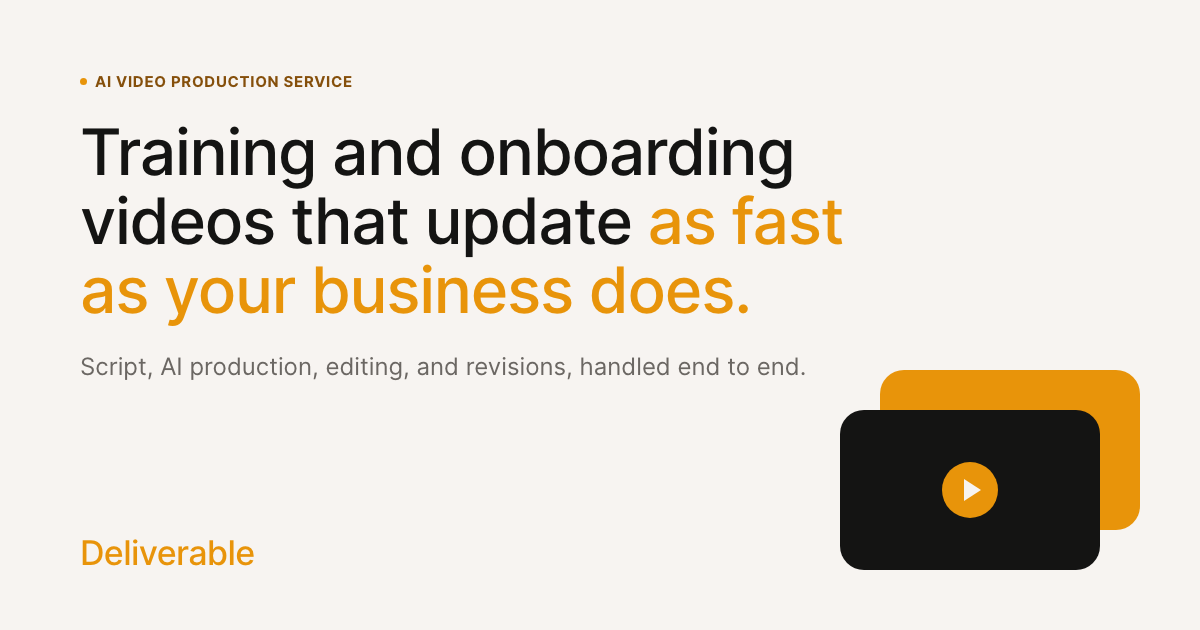
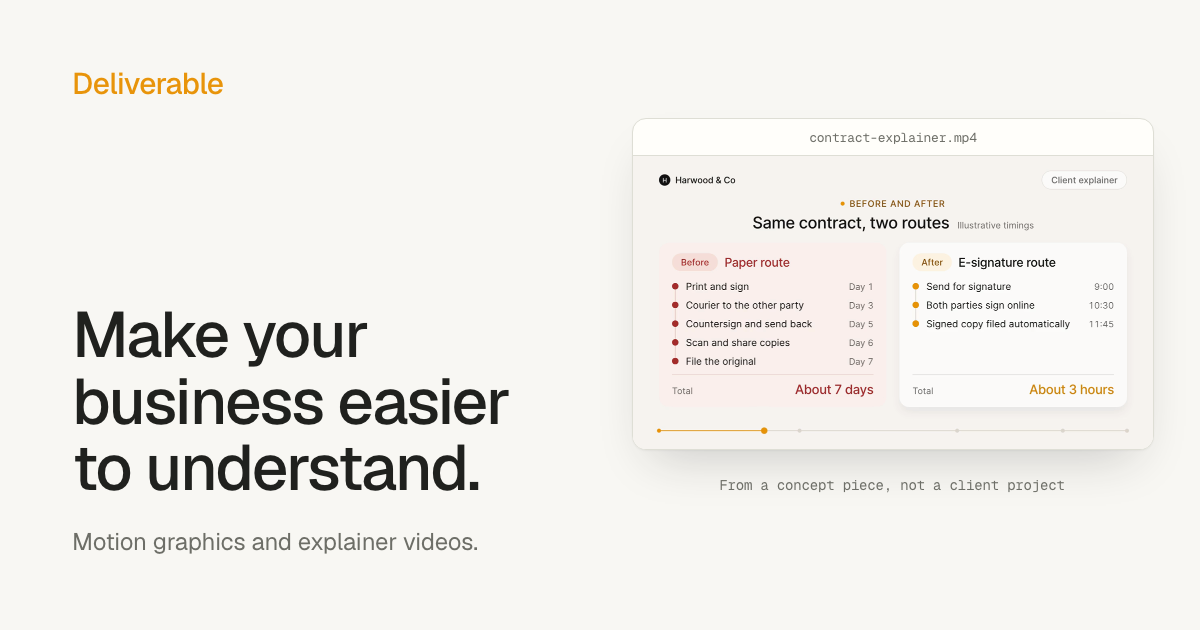
Social image in the current positioning and Geist; footer with page links and the concept-piece note

diff --git a/media/src/scenes/og.html b/media/src/scenes/og.html
@@ -1,38 +1,36 @@
 <!doctype html>
 <html><head><meta charset="utf-8">
 <script>window.SCENE = { name: 'og', width: 1200, height: 630, fps: 30, duration: 0, kind: 'still', out: '../og-image.png' };</script>
+<link rel="stylesheet" href="../../../fonts/fonts.css">
 <style>
-  html, body { width: 1200px; height: 630px; margin: 0; overflow: hidden; background: #F7F4F1; }
-  body { position: relative; font-family: Inter, sans-serif; color: #141413; -webkit-font-smoothing: antialiased; }
-  .copy { position: absolute; left: 80px; top: 72px; width: 900px; }
-  .eyebrow { display: flex; align-items: center; gap: 8px; font-size: 15px; font-weight: 700; color: #854F0B;
-             letter-spacing: 0.7px; text-transform: uppercase; margin-bottom: 26px; }
-  .eyebrow::before { content: ''; width: 7px; height: 7px; border-radius: 50%; background: #E8940A; flex-shrink: 0; }
-  h1 { margin: 0; font-size: 64px; font-weight: 500; line-height: 1.08; letter-spacing: -0.02em; text-wrap: balance; }
-  h1 em { font-style: normal; color: #E8940A; }
-  .sub { margin: 26px 0 0; font-size: 24px; font-weight: 400; line-height: 1.4; color: #6B6763; max-width: 800px; }
-  .mark { position: absolute; left: 80px; bottom: 60px; font-size: 34px; font-weight: 500; letter-spacing: -0.02em;
-          color: #E8940A; line-height: 1; }
+  /* Social card, Oct 2026 positioning. Site tokens and Geist, same window
+     object as the site's example rows, a finished frame of the Explain piece (13.5 s,
+     og-frame.png, extracted with ffmpeg from media/demo-explainer.mp4). */
+  html, body { width: 1200px; height: 630px; margin: 0; overflow: hidden; background: #F8F7F3; }
+  body { position: relative; font-family: Geist, sans-serif; color: #20211E; -webkit-font-smoothing: antialiased; letter-spacing: -0.011em; }
+  .mark { position: absolute; left: 72px; top: 64px; font-size: 30px; font-weight: 500; letter-spacing: -0.02em; color: #E8940A; }
+  .copy { position: absolute; left: 72px; bottom: 72px; width: 470px; }
+  h1 { margin: 0; font-size: 64px; font-weight: 500; line-height: 1.04; letter-spacing: -0.03em; }
+  .sub { margin: 24px 0 0; font-size: 24px; line-height: 1.35; color: #6D6E67; }
 
-  /* Decorative stack: two flat rounded cards with a play mark */
-  .stack { position: absolute; right: 60px; bottom: 60px; width: 300px; height: 200px; }
-  .card { position: absolute; width: 260px; height: 160px; border-radius: 24px; }
-  .back { right: 0; top: 0; background: #E8940A; }
-  .front { left: 0; bottom: 0; background: #141413; }
-  .play { position: absolute; left: 50%; top: 50%; width: 56px; height: 56px; margin: -28px 0 0 -28px;
-          border-radius: 50%; background: #E8940A; }
-  .play::after { content: ''; position: absolute; left: 22px; top: 17px; border-style: solid;
-                 border-width: 11px 0 11px 17px; border-color: transparent transparent transparent #F7F4F1; }
+  .win { position: absolute; left: 632px; top: 118px; width: 520px; background: #FFFEFA; border: 1px solid #DEDED5;
+         border-radius: 14px; overflow: hidden;
+         box-shadow: 0 1px 2px rgba(32,33,30,0.04), 0 24px 48px -20px rgba(32,33,30,0.22); }
+  .bar { height: 36px; display: flex; align-items: center; justify-content: center; border-bottom: 1px solid #DEDED5;
+         font-family: 'Geist Mono', monospace; font-size: 13px; color: #6D6E67; }
+  .media { display: block; width: 100%; aspect-ratio: 16 / 9; object-fit: cover; background: #F8F7F3; }
+  .cap { position: absolute; left: 632px; width: 520px; top: 476px; text-align: center;
+         font-family: 'Geist Mono', monospace; font-size: 14px; color: #6D6E67; }
 </style>
 </head><body>
-  <div class="copy">
-    <div class="eyebrow">AI video production service</div>
-    <h1>Training and onboarding videos that update <em>as fast as your business does.</em></h1>
-    <p class="sub">Script, AI production, editing, and revisions, handled end to end.</p>
-  </div>
   <div class="mark">Deliverable</div>
-  <div class="stack" aria-hidden="true">
-    <div class="card back"></div>
-    <div class="card front"><div class="play"></div></div>
+  <div class="copy">
+    <h1>Make your business easier to understand.</h1>
+    <p class="sub">Motion graphics and explainer videos.</p>
   </div>
+  <div class="win" aria-hidden="true">
+    <div class="bar">contract-explainer.mp4</div>
+    <img class="media" src="og-frame.png" alt="">
+  </div>
+  <div class="cap">From a concept piece, not a client project</div>
 </body></html>

diff --git a/style.css b/style.css
@@ -89,7 +89,7 @@ p+p{margin-top:12px}
 /* One background for the whole page. Sections are separated by space and a
    dotted hairline, not by alternating tinted bands. */
 .section{padding:var(--s8) var(--px);position:relative}
-.section::before{content:'';position:absolute;top:0;left:var(--px);right:var(--px);border-top:1px dotted #CFCFC5}
+.section::before,.footer::before{content:'';position:absolute;top:0;left:var(--px);right:var(--px);border-top:1px dotted #CFCFC5}
 .rows+.section::before,.opening+.section::before{display:none}
 .section-head{max-width:62ch;margin-bottom:var(--s7)}
 .grid-2{display:grid;gap:var(--s6)}
@@ -272,9 +272,13 @@ textarea.form-input{min-height:130px;resize:vertical}
 .privacy{font-size:13px;color:var(--ink-2);margin-top:12px}
 
 /* ---------- Footer ---------- */
-.footer{margin-top:auto;padding:28px var(--px);border-top:1px solid var(--rule);display:flex;justify-content:space-between;align-items:center;gap:16px;flex-wrap:wrap;background:var(--canvas)}
-.footer-logo{font-size:18px;font-weight:500;color:var(--amber)}
-.footer-right{font-size:14px;color:var(--ink-2)}
+.footer{margin-top:auto;position:relative;padding:var(--s8) var(--px) var(--s7);display:flex;flex-direction:column;gap:var(--s7);background:var(--canvas)}
+.footer-top{display:flex;justify-content:space-between;align-items:baseline;gap:var(--s5);flex-wrap:wrap}
+.footer-logo{font-size:var(--t-title);font-weight:500;color:var(--amber);text-decoration:none}
+.footer-links{display:flex;flex-wrap:wrap;gap:var(--s3) var(--s5)}
+.footer-links a{font-size:var(--t-small);color:var(--ink-2);text-decoration:none}
+.footer-links a:hover{color:var(--ink)}
+.footer-right{font-family:var(--mono);font-size:var(--t-meta);color:var(--ink-2);letter-spacing:0.02em}
 
 /* ---------- Motion preferences ---------- */
 @media(prefers-reduced-motion:reduce){

diff --git a/about.html b/about.html
@@ -108,8 +108,17 @@
 </main>
 
 <footer class="footer">
-  <span class="footer-logo">Deliverable</span>
-  <span class="footer-right">hello@deliverable.studio &middot; Ho Chi Minh City</span>
+  <div class="footer-top">
+    <a class="footer-logo" href="index.html">Deliverable</a>
+    <nav class="footer-links" aria-label="Footer">
+      <a href="work.html">Examples</a>
+      <a href="how-it-works.html">Process</a>
+      <a href="who-its-for.html">Who it's for</a>
+      <a href="about.html">About</a>
+      <a href="contact.html">Start a project</a>
+    </nav>
+  </div>
+  <p class="footer-right">hello@deliverable.studio &middot; Ho Chi Minh City &middot; Every example on this site is a concept piece.</p>
 </footer>
 
 <script src="script.js"></script>

diff --git a/contact.html b/contact.html
@@ -108,8 +108,17 @@
 </main>
 
 <footer class="footer">
-  <span class="footer-logo">Deliverable</span>
-  <span class="footer-right">hello@deliverable.studio &middot; Ho Chi Minh City</span>
+  <div class="footer-top">
+    <a class="footer-logo" href="index.html">Deliverable</a>
+    <nav class="footer-links" aria-label="Footer">
+      <a href="work.html">Examples</a>
+      <a href="how-it-works.html">Process</a>
+      <a href="who-its-for.html">Who it's for</a>
+      <a href="about.html">About</a>
+      <a href="contact.html">Start a project</a>
+    </nav>
+  </div>
+  <p class="footer-right">hello@deliverable.studio &middot; Ho Chi Minh City &middot; Every example on this site is a concept piece.</p>
 </footer>
 
 <script src="script.js"></script>

diff --git a/how-it-works.html b/how-it-works.html
@@ -124,8 +124,17 @@
 </main>
 
 <footer class="footer">
-  <span class="footer-logo">Deliverable</span>
-  <span class="footer-right">hello@deliverable.studio &middot; Ho Chi Minh City</span>
+  <div class="footer-top">
+    <a class="footer-logo" href="index.html">Deliverable</a>
+    <nav class="footer-links" aria-label="Footer">
+      <a href="work.html">Examples</a>
+      <a href="how-it-works.html">Process</a>
+      <a href="who-its-for.html">Who it's for</a>
+      <a href="about.html">About</a>
+      <a href="contact.html">Start a project</a>
+    </nav>
+  </div>
+  <p class="footer-right">hello@deliverable.studio &middot; Ho Chi Minh City &middot; Every example on this site is a concept piece.</p>
 </footer>
 
 <script src="script.js"></script>

diff --git a/index.html b/index.html
@@ -277,8 +277,17 @@
 </main>
 
 <footer class="footer">
-  <span class="footer-logo">Deliverable</span>
-  <span class="footer-right">hello@deliverable.studio &middot; Ho Chi Minh City</span>
+  <div class="footer-top">
+    <a class="footer-logo" href="index.html">Deliverable</a>
+    <nav class="footer-links" aria-label="Footer">
+      <a href="work.html">Examples</a>
+      <a href="how-it-works.html">Process</a>
+      <a href="who-its-for.html">Who it's for</a>
+      <a href="about.html">About</a>
+      <a href="contact.html">Start a project</a>
+    </nav>
+  </div>
+  <p class="footer-right">hello@deliverable.studio &middot; Ho Chi Minh City &middot; Every example on this site is a concept piece.</p>
 </footer>
 
 <script src="script.js"></script>

diff --git a/who-its-for.html b/who-its-for.html
@@ -145,8 +145,17 @@
 </main>
 
 <footer class="footer">
-  <span class="footer-logo">Deliverable</span>
-  <span class="footer-right">hello@deliverable.studio &middot; Ho Chi Minh City</span>
+  <div class="footer-top">
+    <a class="footer-logo" href="index.html">Deliverable</a>
+    <nav class="footer-links" aria-label="Footer">
+      <a href="work.html">Examples</a>
+      <a href="how-it-works.html">Process</a>
+      <a href="who-its-for.html">Who it's for</a>
+      <a href="about.html">About</a>
+      <a href="contact.html">Start a project</a>
+    </nav>
+  </div>
+  <p class="footer-right">hello@deliverable.studio &middot; Ho Chi Minh City &middot; Every example on this site is a concept piece.</p>
 </footer>
 
 <script src="script.js"></script>

diff --git a/work.html b/work.html
@@ -183,8 +183,17 @@
 </main>
 
 <footer class="footer">
-  <span class="footer-logo">Deliverable</span>
-  <span class="footer-right">hello@deliverable.studio &middot; Ho Chi Minh City</span>
+  <div class="footer-top">
+    <a class="footer-logo" href="index.html">Deliverable</a>
+    <nav class="footer-links" aria-label="Footer">
+      <a href="work.html">Examples</a>
+      <a href="how-it-works.html">Process</a>
+      <a href="who-its-for.html">Who it's for</a>
+      <a href="about.html">About</a>
+      <a href="contact.html">Start a project</a>
+    </nav>
+  </div>
+  <p class="footer-right">hello@deliverable.studio &middot; Ho Chi Minh City &middot; Every example on this site is a concept piece.</p>
 </footer>
 
 <script src="script.js"></script>

diff --git a/404.html b/404.html
@@ -61,8 +61,17 @@
 </main>
 
 <footer class="footer">
-  <span class="footer-logo">Deliverable</span>
-  <span class="footer-right">hello@deliverable.studio &middot; Ho Chi Minh City</span>
+  <div class="footer-top">
+    <a class="footer-logo" href="index.html">Deliverable</a>
+    <nav class="footer-links" aria-label="Footer">
+      <a href="work.html">Examples</a>
+      <a href="how-it-works.html">Process</a>
+      <a href="who-its-for.html">Who it's for</a>
+      <a href="about.html">About</a>
+      <a href="contact.html">Start a project</a>
+    </nav>
+  </div>
+  <p class="footer-right">hello@deliverable.studio &middot; Ho Chi Minh City &middot; Every example on this site is a concept piece.</p>
 </footer>
 
 <script src="script.js"></script>
